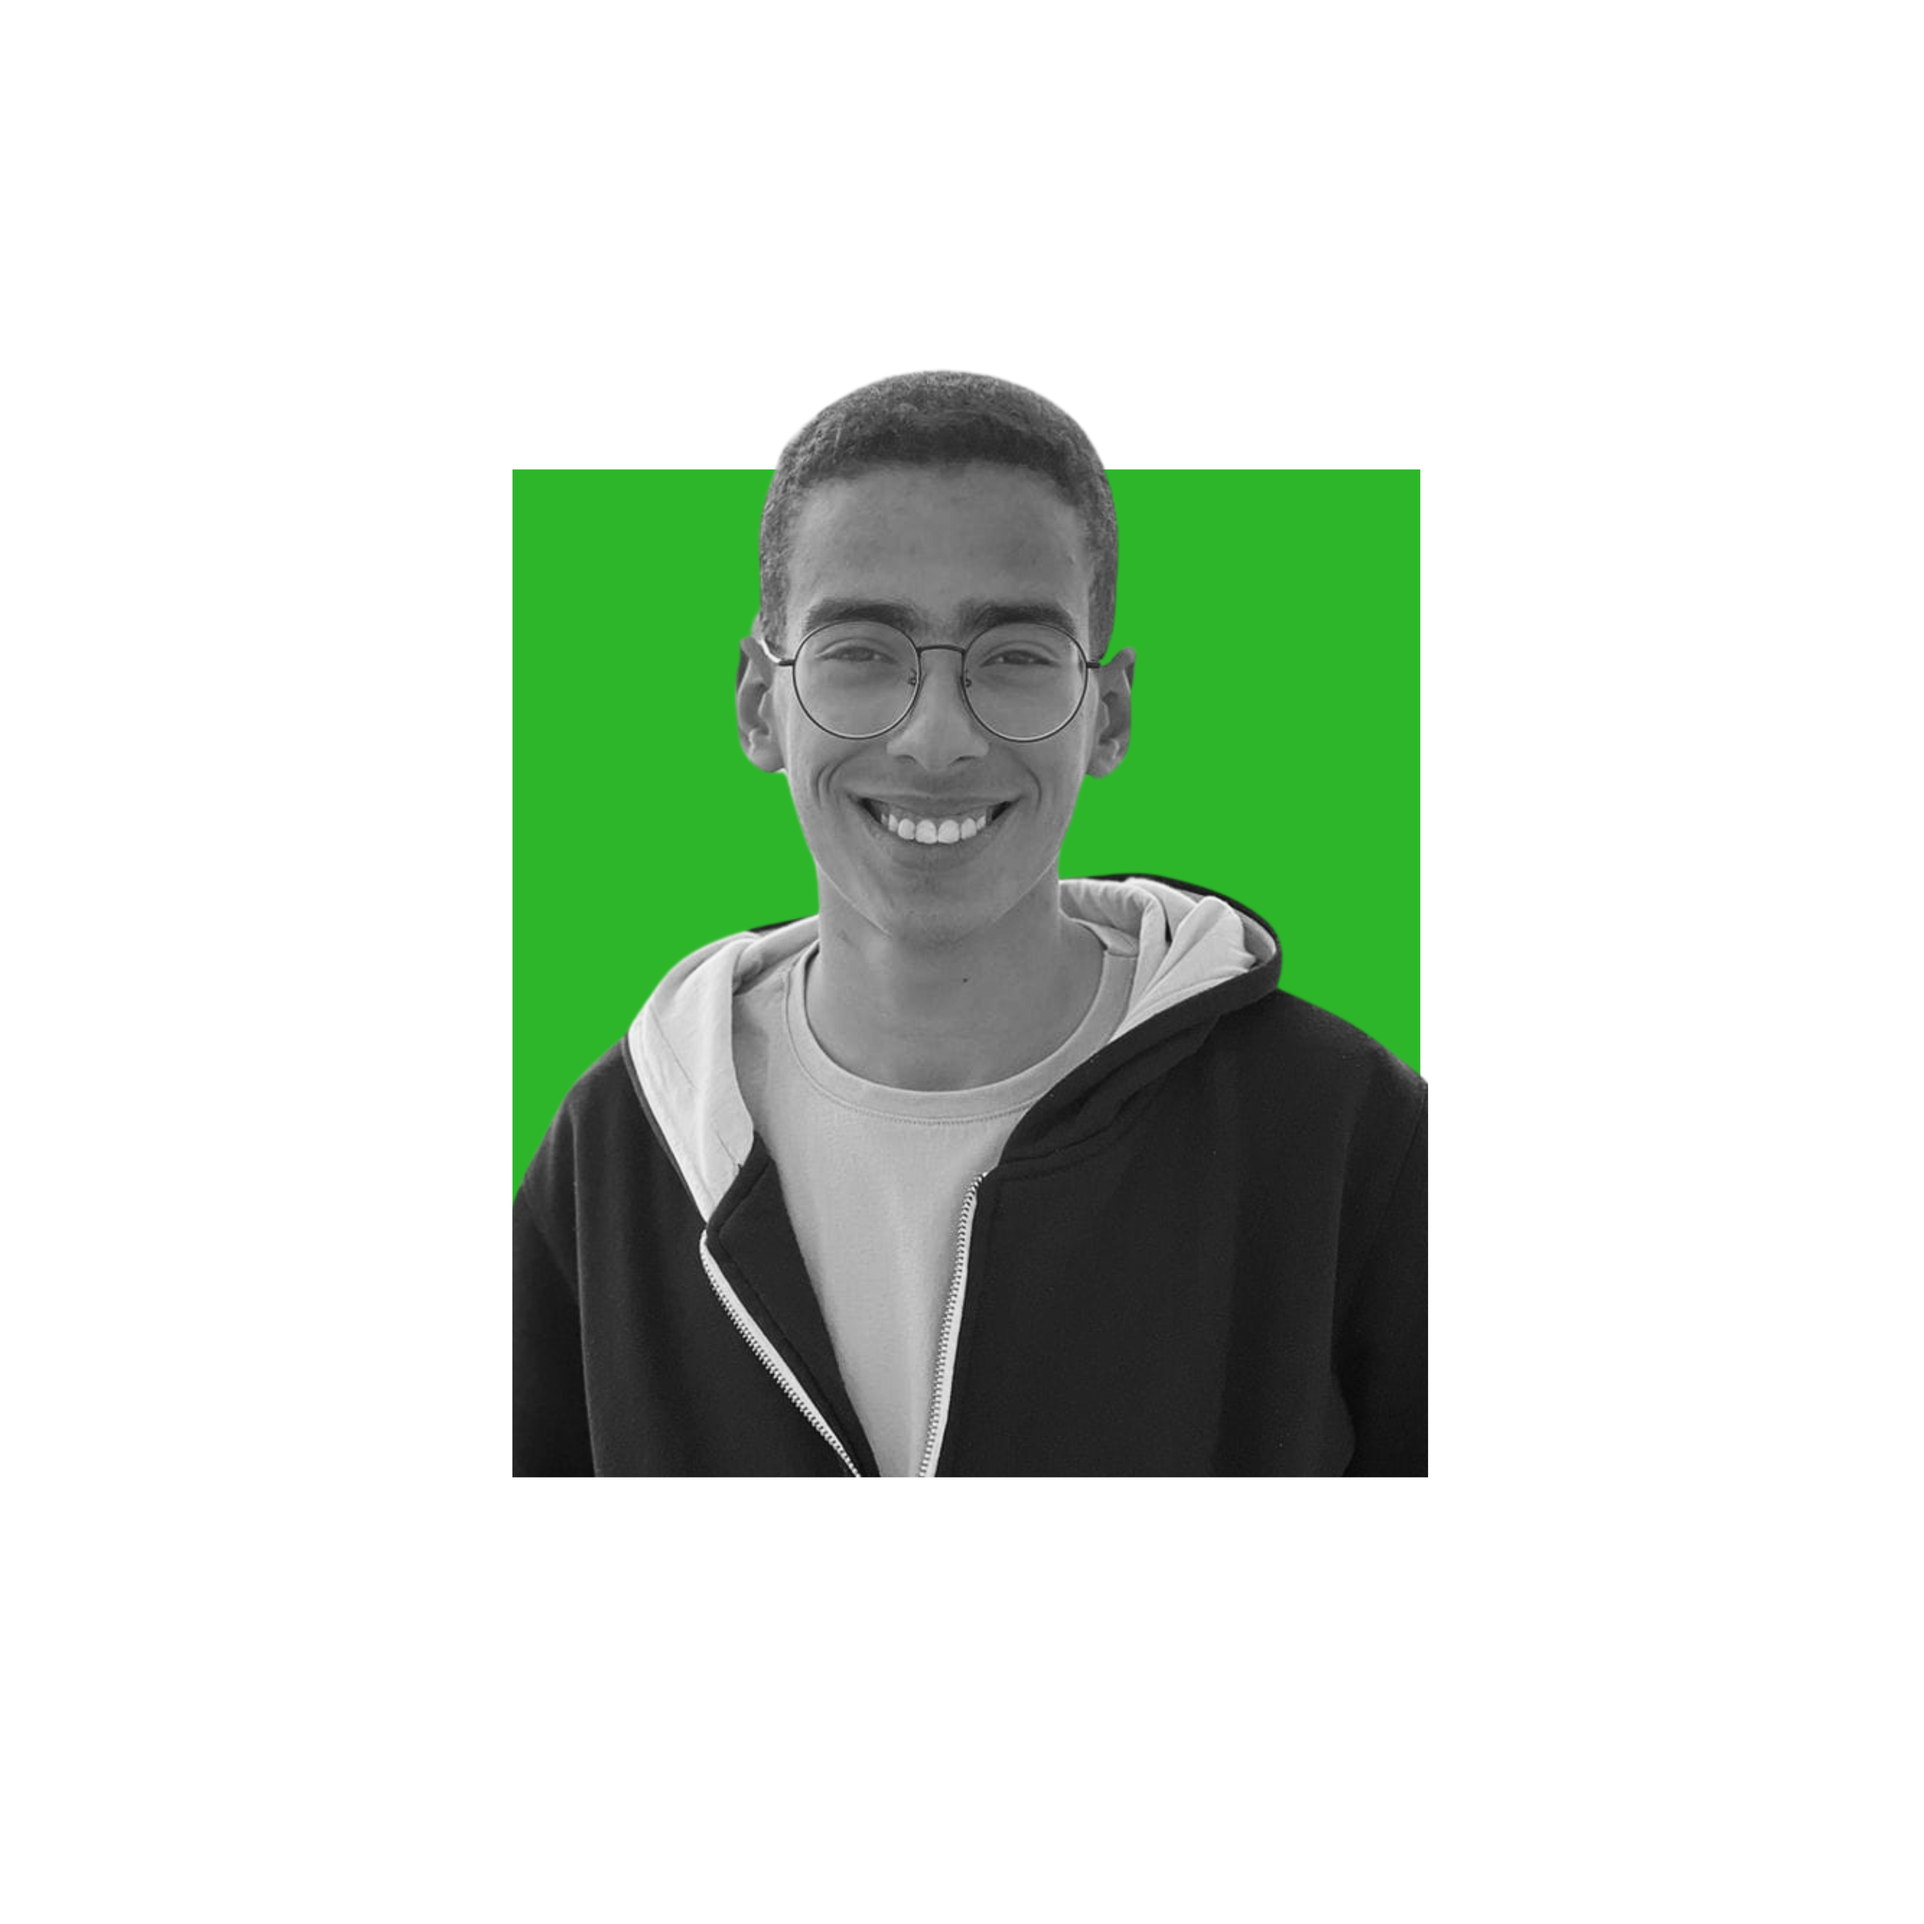
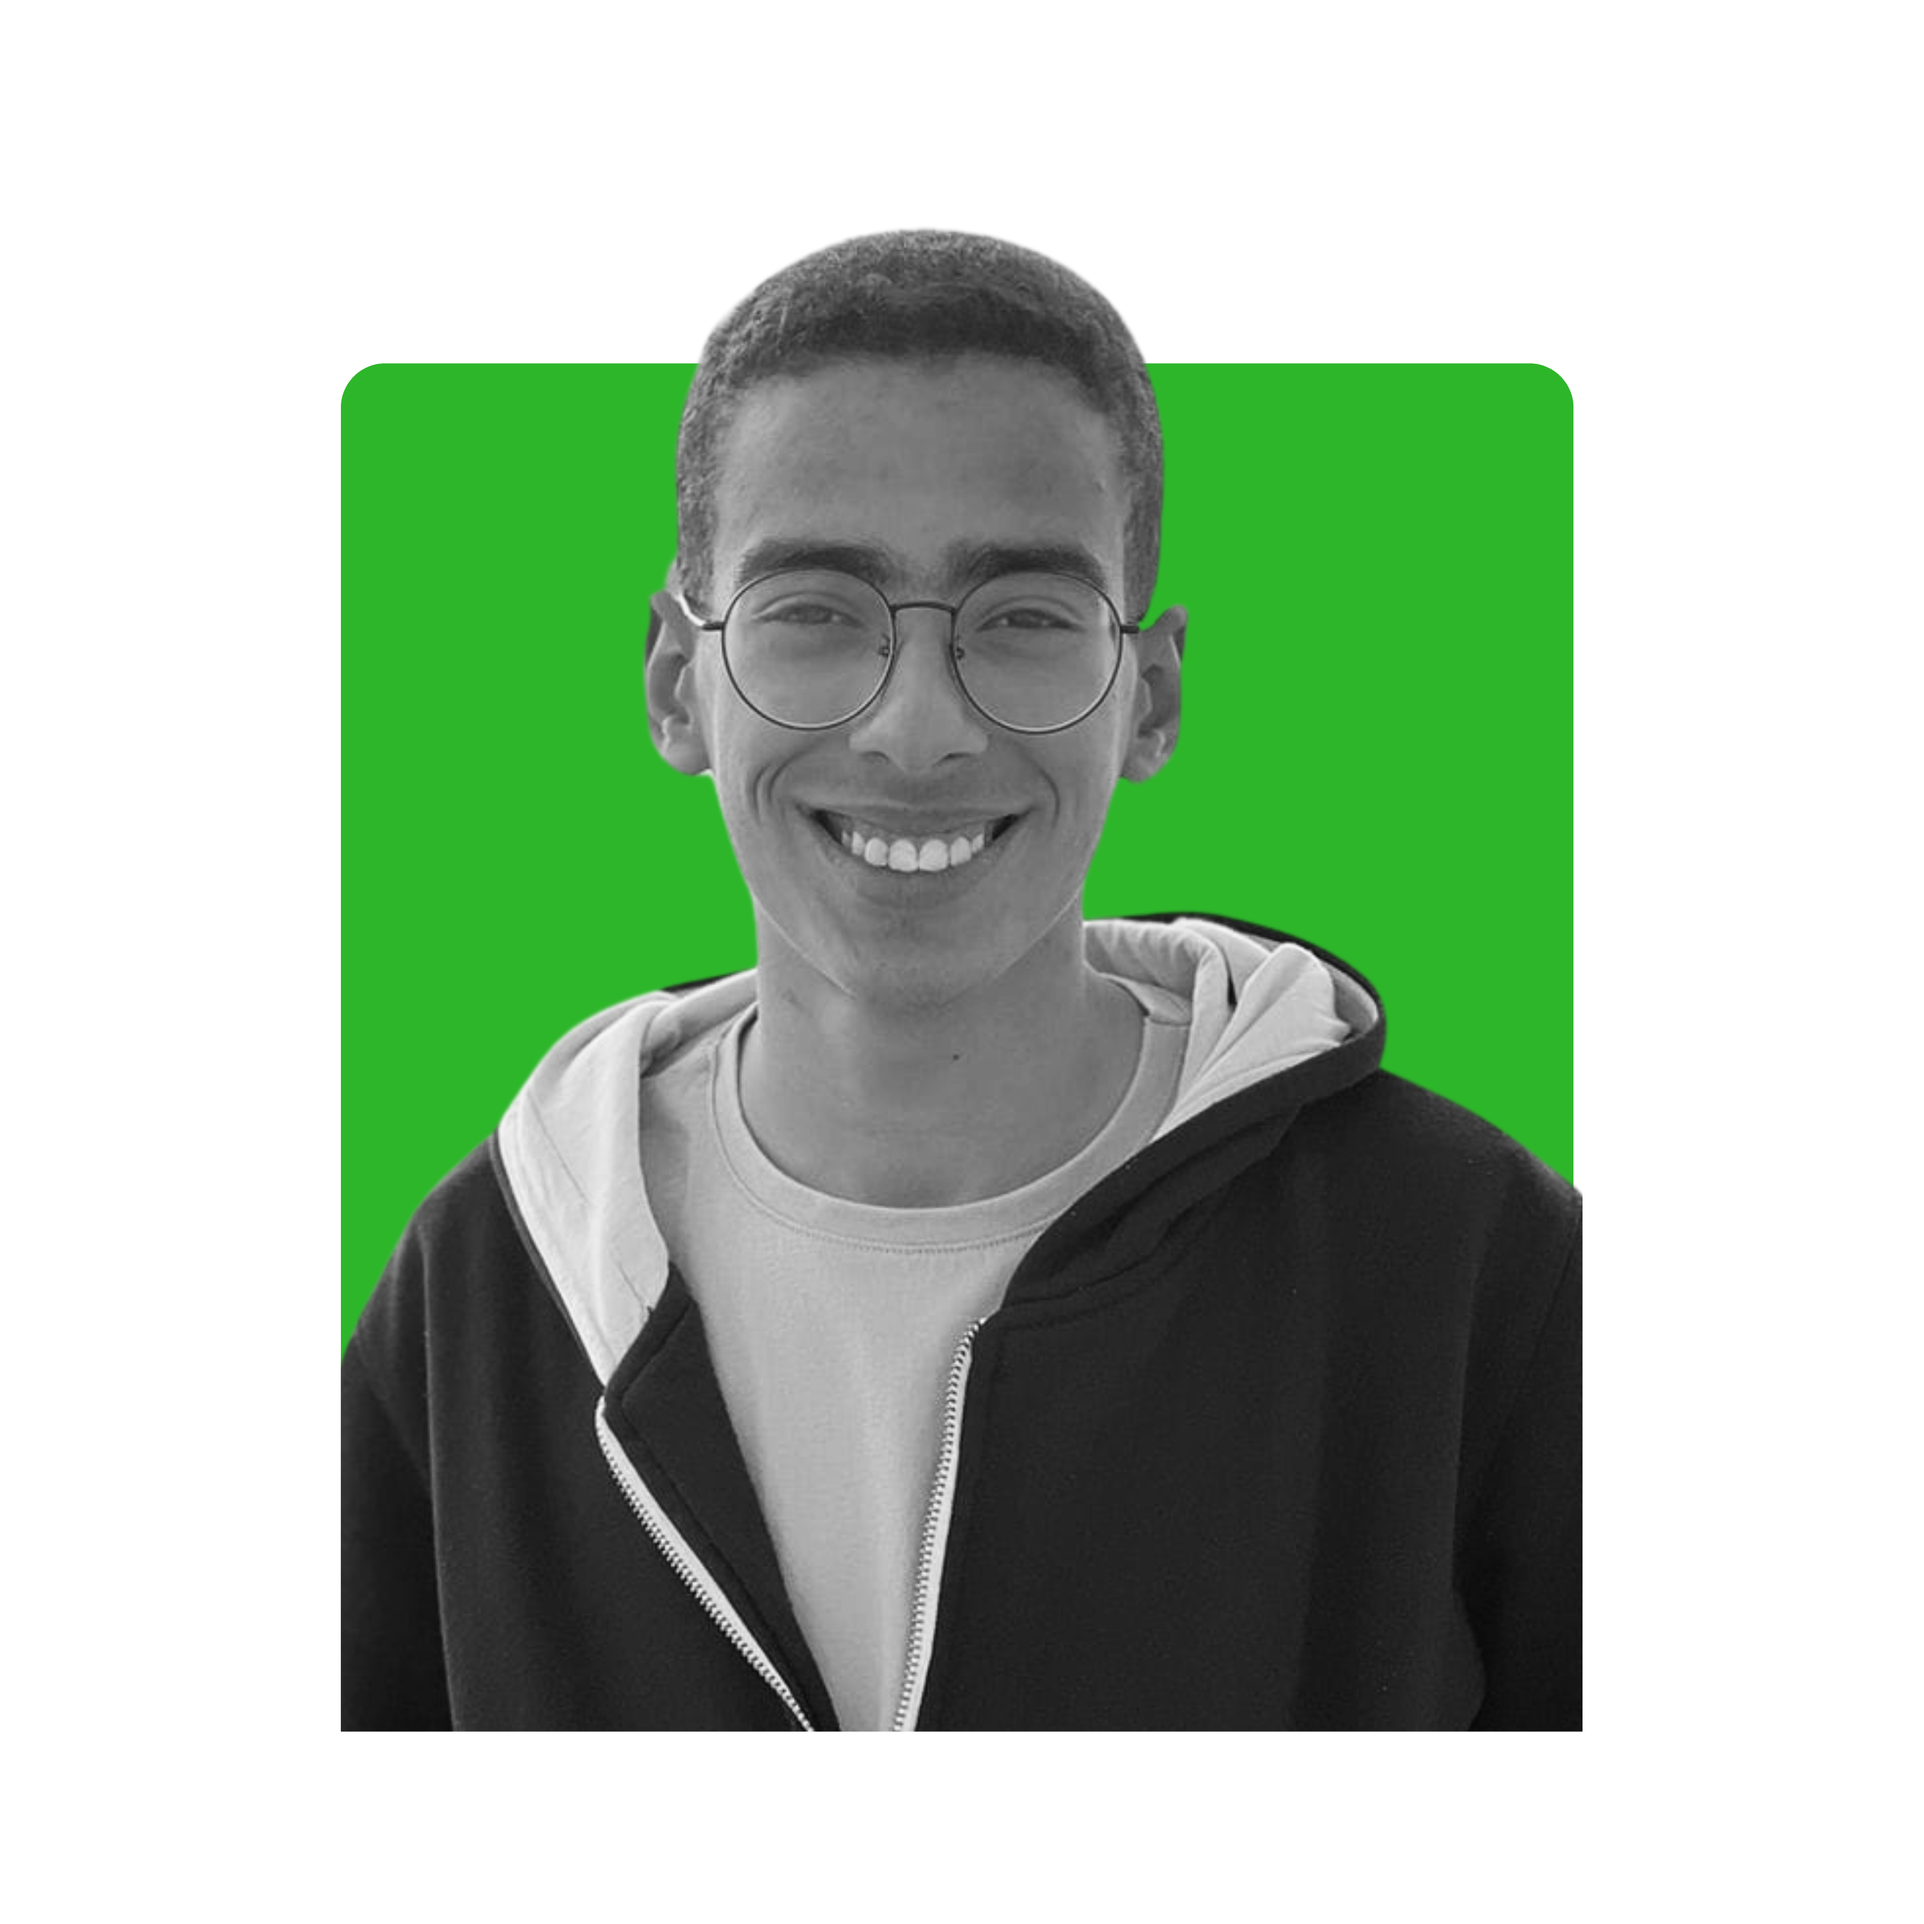
store dark theme and about photos size changes

diff --git a/Pages/Store/store.css b/Pages/Store/store.css
@@ -164,45 +164,39 @@ footer{
     font-size: 12px;
 }
 
+.main{
+  display: flex;
+}
+
 .store {
     text-decoration: underline;
     text-underline-offset: 10px;
     text-decoration-thickness: 3px;
 }
 
-
-
-
-
-
-
-
-
-
-  .product-card {
+.product-card {
     width: 300px;
-    background: white;
-    border-radius: 10px;
+    background: #191919;
     box-shadow: 0 4px 6px rgba(0, 0, 0, 0.1);
     overflow: hidden;
-    position: relative;
-  }
+    margin-left: 38px;
+}
   
-  .product-image {
+.product-image {
     position: relative;
     height: 180px;
     background: #f3f3f3;
     display: flex;
     justify-content: center;
     align-items: center;
-  }
+}
   
-  .product-image img {
+.product-image img {
     max-width: 100px;
     height: auto;
-  }
+}
   
-  .favorite-btn {
+.favorite-btn {
     position: absolute;
     top: 10px;
     right: 10px;
@@ -216,55 +210,53 @@ footer{
     align-items: center;
     box-shadow: 0 2px 4px rgba(0, 0, 0, 0.15);
     cursor: pointer;
-  }
+}
   
-  .favorite-btn span {
-    font-size: 18px;
-    color: #ccc;
-  }
+.favorite-btn span {
+  font-size: 18px;
+  color: #ccc;
+}
   
-  .product-details {
-    padding: 16px;
-  }
+.product-details {
+  padding: 16px;
+  color:white;
+}
   
-  .brand-name {
+.brand-name {
     font-size: 12px;
-    color: #555;
     margin: 0 0 4px;
-  }
+}
   
-  .product-title {
+.product-title {
     font-size: 16px;
     font-weight: bold;
-    color: #222;
     margin: 0 0 8px;
-  }
+}
   
-  .price {
+.price {
     font-size: 18px;
     font-weight: bold;
-    color: #222;
     margin: 0 0 8px;
-  }
+}
   
-  .rating {
+.rating {
     display: flex;
     align-items: center;
     margin: 0 0 8px;
-  }
+}
   
-  .stars {
+.stars {
     color: #f4b400;
     font-size: 14px;
     margin-right: 8px;
-  }
+}
   
-  .review-count {
+.review-count {
     font-size: 12px;
     color: #555;
-  }
+}
   
-  .arrival-info {
+.arrival-info {
     font-size: 12px;
     color: #888;
-  }
+}

diff --git a/Pages/Store/store.html b/Pages/Store/store.html
@@ -4,6 +4,7 @@
     <meta charset="UTF-8" />
     <meta name="viewport" content="width=device-width, initial-scale=1.0" />
     <link href="https://cdn.jsdelivr.net/npm/remixicon@4.2.0/fonts/remixicon.css"rel="stylesheet"/>
+    <link rel="stylesheet" href="https://cdn.jsdelivr.net/npm/bootstrap@5.2.3/dist/css/bootstrap.min.css" integrity="sha384-rbsA2VBKQhggwzxH7pPCaAqO46MgnOM80zW1RWuH61DGLwZJEdK2Kadq2F9CUG65" crossorigin="anonymous">
     <link rel="stylesheet" href="https://cdnjs.cloudflare.com/ajax/libs/font-awesome/5.15.4/css/all.min.css">
     <link rel="stylesheet" href="store.css" />
     <title>Sportofolio.eg</title>
@@ -35,7 +36,7 @@
     
     <main>
 
-      <div class="product-card">
+      <div class="product-card rounded-4">
         <div class="product-image">
           <img src="../../images/logo.png" alt="Evoshield Thigh Guard">
           <button class="favorite-btn">
@@ -43,8 +44,8 @@
           </button>
         </div>
         <div class="product-details">
-          <h4 class="brand-name">Evoshield</h4>
-          <p class="product-title">EVOSHIELD GEL-TO-SHELL THIGH GUARDS</p>
+          <h4 class="brand-name">Sportofolio</h4>
+          <p class="product-title">ELNASSR official kit 2024</p>
           <p class="price">$34.95</p>
           <div class="rating">
             <span class="stars">★★★★☆</span>

diff --git a/Pages/About/about.css b/Pages/About/about.css
@@ -141,14 +141,14 @@ footer{
 
 .team-container {
     display: flex;
-    flex-wrap: wrap;
+    
     justify-content: space-between;
     gap: 20px;
 }
 
 .team-member {
     width: 24%;
-    background-color: #2c2c2c;
+    background-color: #191919;
     border-radius: 12px;
     text-align: center;
     padding: 20px;
@@ -171,13 +171,13 @@ footer{
     height: 300px;
     object-fit: cover;
     border-radius: 10px;
-    margin-bottom: 15px;
+    margin-bottom: 16px;
 }
 
 .team-name {
     font-size: 24px;
     font-weight: bold;
-    margin: 20px 0;
+    margin: 16px 0;
     color: #2EB62B;
 }
 
